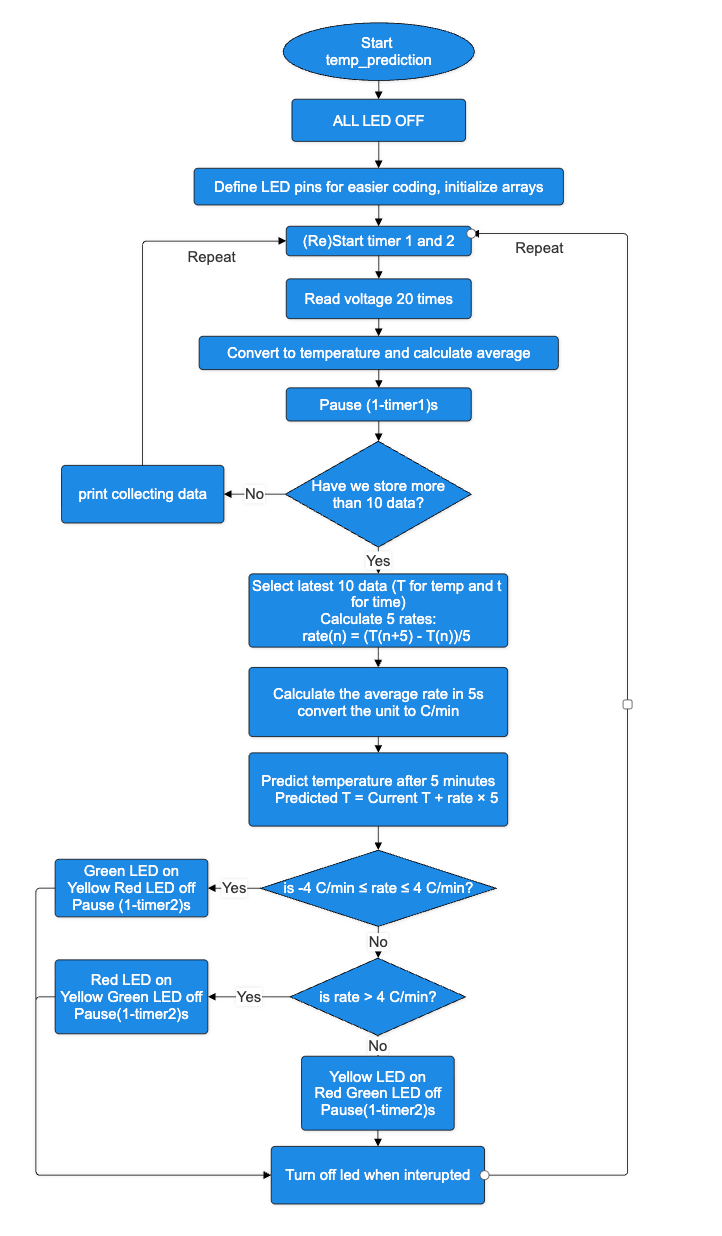
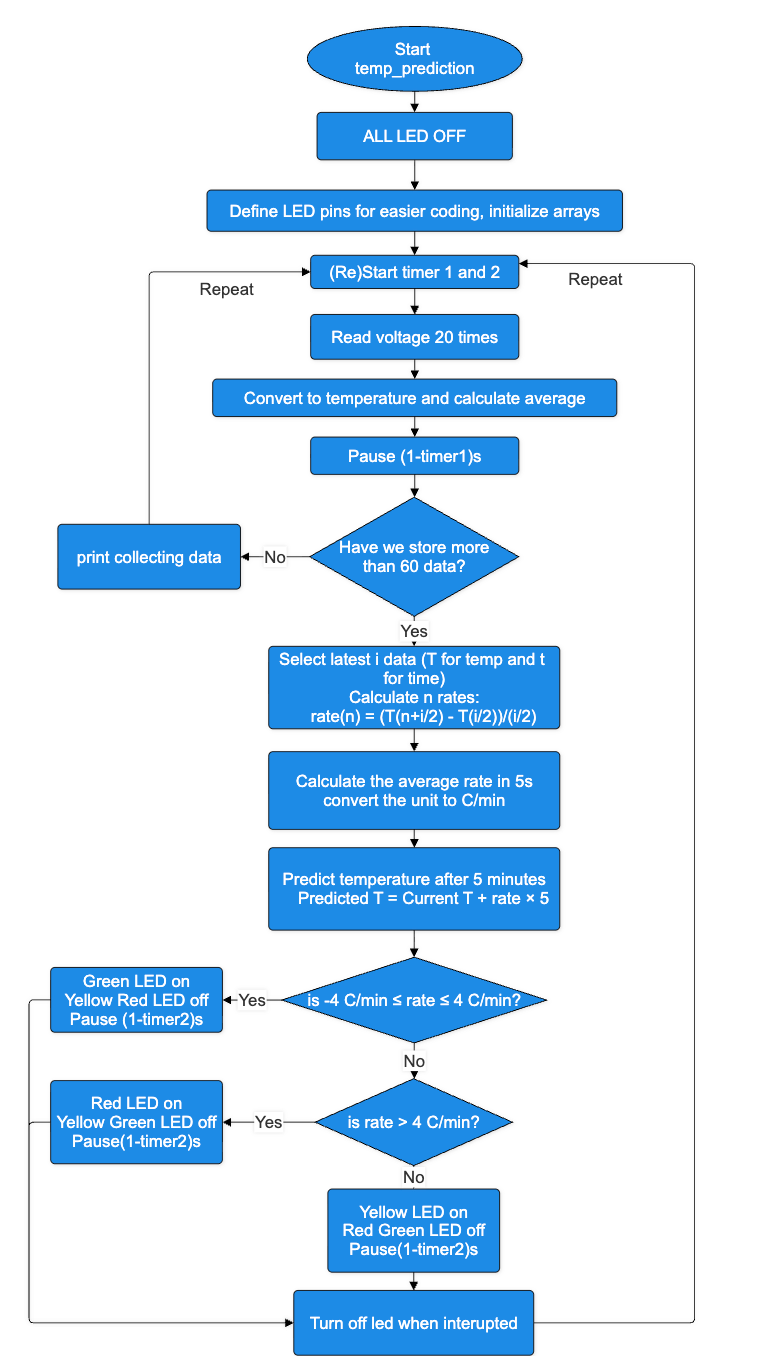
finish task 3, fix little mistake in flowcharts

Changed region(s): [[0.0305, 0.0, 0.8227, 1.0], [0.8532, 0.5534, 0.8837, 0.5841], [0.8532, 0.1845, 0.8837, 0.2152]]

diff --git a/temp_prediction.m b/temp_prediction.m
@@ -1,0 +1,123 @@
+%Yao LIANG [email redacted]
+%The temp_prediction function monitors the temperature change rate and can
+%predict temperature in 5 minutes. This function is designed using arduino
+%UNO and MCP9700AE thermistor. It log 20 voltage readings each one-second
+%cycle, converts the result to temperature, and store the real-time data for each second.
+%It calculate 30 changing rate with the 60 newest data. Then the rates are
+%averaged and used to predict the temperature. GreenLED will be on when
+%rate is around -4 C/min to 4. When rate is smaller than -4 C/min, YellowLED
+%will be on. When rate is bigger than 4 C/min, RedLED will be on.
+function temp_prediction(a)
+%define pins to make coding easier
+
+redLED = "D8";
+greenLED = "D10";
+yellowLED = "D12";
+
+%make sure all lights are closed when start and interupted
+writeDigitalPin(a,redLED,0);
+writeDigitalPin(a,greenLED,0);
+writeDigitalPin(a,yellowLED,0);
+cleanup = onCleanup(@() turnOffLEDs(a,redLED,greenLED,yellowLED));
+
+%init arrays
+time = [];
+temperature = [];
+
+%number of voltage readings in each loop
+count = 20;
+
+%number of data used to calculate rate
+window_size = 60;
+
+%start timer
+start_time = tic;
+
+%the prediction loop
+
+while true
+    loop_start = tic;
+
+    %read voltage 20 times and average it
+    voltageSamples = zeros(count,1);
+    for k = 1:count
+        voltageSamples(k) = readVoltage(a,"A5");
+    end
+    voltage = mean(voltageSamples);
+    %convert voltage to temperature
+    temp = (voltage - 0.5) * 100;
+    
+    %store time and temperature
+    currentTime = toc(start_time);
+    time = [time; currentTime];
+    temperature = [temperature; temp];
+
+    %calculate rate when enough data has been stored
+    if length(temperature) >= window_size
+        %select the newest 60 data
+        newest_time = time(end-window_size+1:end);
+
+        newest_temperature = temperature(end-window_size+1:end);
+
+        %calculate 30 rates using 60 data
+        rates = zeros(30,1);
+        for n = 1:30
+            rates(n) = (newest_temperature(n+30) - newest_temperature(n)) / (newest_time(n+30) - newest_time(n));
+        end
+
+        %calculate the average rate and convert it from C/s to C/min
+        rate_avg = mean(rates);
+        rate_min = rate_avg * 60;
+
+        %predict temperature after 5 minutes
+        predictedTemp = temp + rate_min * 5;
+
+        %print information
+        fprintf('Current temperature: %.2f C\tRate: %.2f C/min\tPredicted temperature in 5 min: %.2f C\n',temp, rate_min, predictedTemp);
+
+        %LED control logic
+        if rate_min >= -4 && rate_min <= 4
+
+            %stable temperature green LED constant on
+            writeDigitalPin(a,redLED,0);
+            writeDigitalPin(a,yellowLED,0);
+            writeDigitalPin(a,greenLED,1);
+
+        elseif rate_min > 4
+
+            %temperature increase too fast red LED constant on
+            writeDigitalPin(a,greenLED,0);
+            writeDigitalPin(a,yellowLED,0);
+            writeDigitalPin(a,redLED,1);
+
+        else
+
+            %temperature decrease too fast yellow LED constant on
+            writeDigitalPin(a,greenLED,0);
+            writeDigitalPin(a,redLED,0);
+            writeDigitalPin(a,yellowLED,1);
+
+        end
+
+    else
+
+        %not enough data yet
+        fprintf('Collecting data\n',temp);
+
+    end
+
+    %make each loop take approximately 1 second
+    pauseTime = 1 - toc(loop_start);
+    if pauseTime > 0
+        pause(pauseTime);
+    end
+
+end
+
+end
+
+function turnOffLEDs(a,redLED,greenLED,yellowLED)
+    writeDigitalPin(a,redLED,0);
+    writeDigitalPin(a,greenLED,0);
+    writeDigitalPin(a,yellowLED,0);
+end

diff --git a/Yao_LIANG_20718529.m b/Yao_LIANG_20718529.m
@@ -123,11 +123,11 @@ a = arduino("/dev/cu.usbserial-1310","Uno");
 %% TASK 2 - LED TEMPERATURE MONITORING DEVICE IMPLEMENTATION [25 MARKS]
 
 % Insert answers here
-temp_monitor(a);
+% temp_monitor(a);
 %% TASK 3 - ALGORITHMS – TEMPERATURE PREDICTION [30 MARKS]
 
 % Insert answers here
-
+temp_prediction(a);
 
 %% TASK 4 - REFLECTIVE STATEMENT [5 MARKS]
 